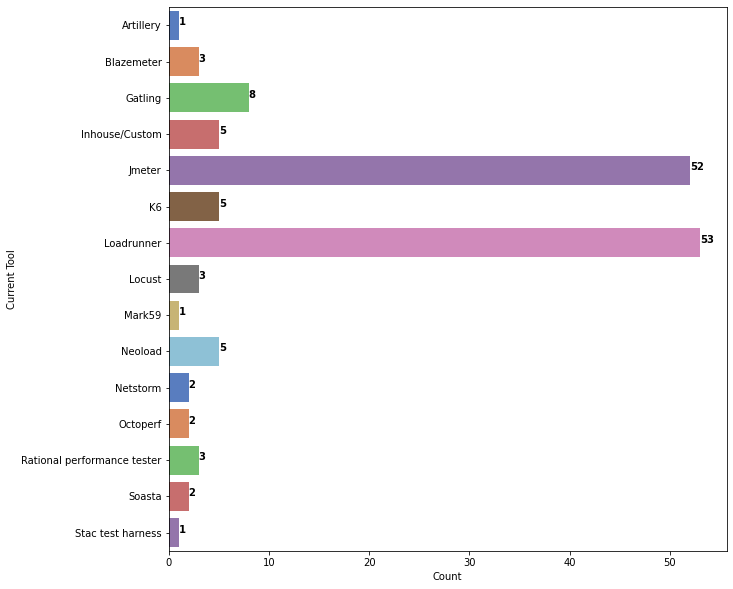
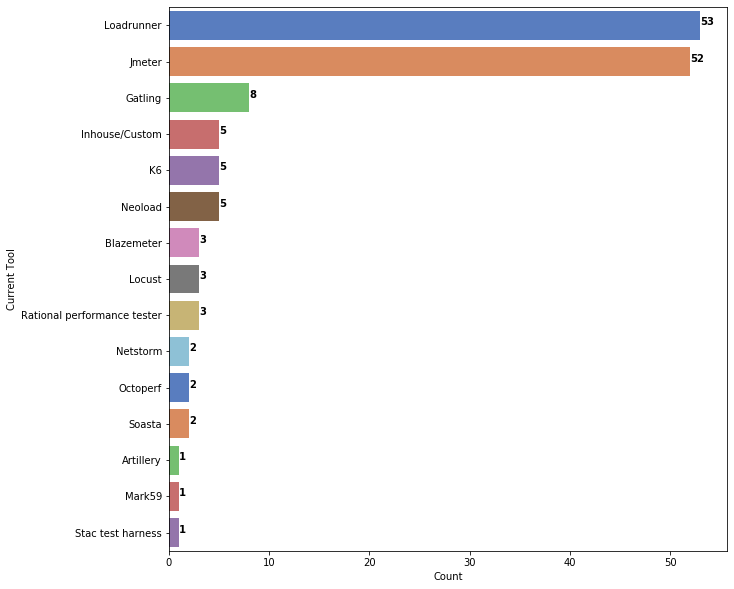
updated the scripts
updated the script

diff --git a/tool_survey.py b/tool_survey.py
@@ -3,6 +3,7 @@
 import pandas as pd
 import seaborn as sns
 import matplotlib.pyplot as plt
+from collections import Counter
 import warnings
 warnings.filterwarnings("ignore")
  
@@ -41,6 +42,17 @@ def split_string_in_column(file_name):
         fav_tool['value'] = fav_tool['value'].str.capitalize()
         fav_tool_table = pd.pivot_table(fav_tool, values='value',columns=['value'], aggfunc='count')
         
+        #Get country data
+        country = Counter(tools_df['country'])
+        country_list = pd.DataFrame(country.items())
+        country_list.columns = ['country','count']
+        
+        
+        #Get current industry data
+        current_industry = Counter(tools_df['current_industry'])
+        current_industry_list = pd.DataFrame(current_industry.items())
+        current_industry_list.columns = ['industry','count']
+
         
 #        #Get Total Performance Testing Experience
 #        experience = tools_df['experience'].str.split(", ", expand = True) #split each row in the column with ", "
@@ -49,21 +61,21 @@ def split_string_in_column(file_name):
 #        experience['value'] = experience['value'].str.capitalize()
 #        experience_table = pd.pivot_table(experience, values='value',columns=['value'], aggfunc='count')
 #        
-#        #Get virtual users load tested to in current engagement
-#        virtual_users = tools_df['virtual_users'].str.split(", ", expand = True) #split each row in the column with ", "
-#        virtual_users=pd.melt(virtual_users) #combine all columns into one column
-#        virtual_users.sort_values(["value"], ascending=True)
-#        
-#        virtual_users_table = pd.pivot_table(virtual_users, values='value',columns=['value'], aggfunc='count')
-#        
-#        print(virtual_users_table)
-#        virtual_users_table = virtual_users_table.T.sort_values(by ='value')
-#        print(virtual_users_table)
+        #Get virtual users load tested to in current engagement
+        # virtual_users = tools_df['virtual_users'].str.split(", ", expand = True) #split each row in the column with ", "
+        # virtual_users=pd.melt(virtual_users) #combine all columns into one column
+        # virtual_users.sort_values(["value"], ascending=True)
+        
+        # virtual_users_table = pd.pivot_table(virtual_users, values='value',columns=['value'], aggfunc='count')
+        
+        # print(virtual_users_table)
+        # #virtual_users_table = virtual_users_table.T.sort_values(by ='value')
         
         tools_used_chart(tools_used_table.T)
         current_tool_chart(current_tool_table.T)
-        fav_tool_chart(fav_tool_table.T)
-        
+        fav_tool_chart(fav_tool_table.T) 
+        country_chart(country_list)
+        current_industry_chart(current_industry_list)
         
     except Exception as e:
         print(e)
@@ -71,8 +83,28 @@ def split_string_in_column(file_name):
 def autopct_more_than_1(pct):
     return ('%1.f%%' % pct) if pct > 1 else ''
 
-def tools_used_chart(tools_used):
+def current_industry_chart(current_industry):
+    current_industry = current_industry.sort_values(by = 'count', ascending=False)
+    bar,ax = plt.subplots(figsize=(10,10))
+    ax = sns.barplot(x='count', y='industry', data=current_industry ,orient='h')
+    ax.set_xlabel ("Count")
+    ax.set_ylabel ("Industry")
+    for rect in ax.patches:
+        ax.text (rect.get_width(), rect.get_y() + rect.get_height() / 2,"%d"% rect.get_width(), weight='bold' )
+
+
+def country_chart(country):
+    country = country.sort_values(by = 'count', ascending=False)
+    bar,ax = plt.subplots(figsize=(10,10))
+    ax = sns.barplot(x='count', y='country', data=country ,orient='h')
+    ax.set_xlabel ("Count")
+    ax.set_ylabel ("Country")
+    for rect in ax.patches:
+        ax.text (rect.get_width(), rect.get_y() + rect.get_height() / 2,"%d"% rect.get_width(), weight='bold' )
     
+
+def tools_used_chart(tools_used):
+    tools_used = tools_used.sort_values(by = 'variable', ascending=False)
     bar,ax = plt.subplots(figsize=(10,10))
     ax = sns.barplot(x="variable", y=tools_used.index, data=tools_used, ci=None, palette="muted",orient='h' )
     #ax.set_title("In past three years, for your work, which load test tools have you used the most?", fontsize=13)
@@ -82,6 +114,7 @@ def tools_used_chart(tools_used):
         ax.text (rect.get_width(), rect.get_y() + rect.get_height() / 2,"%d"% rect.get_width(), weight='bold' )
 
 def current_tool_chart(current_tool):
+    current_tool = current_tool.sort_values(by = 'variable', ascending=False)
     bar,ax = plt.subplots(figsize=(10,10))
     ax = sns.barplot(x="variable", y=current_tool.index, data=current_tool, ci=None, palette="muted",orient='h' )
     #ax.set_title("Which load test tool are you using in your current engagement/job?", fontsize=13)
@@ -92,6 +125,7 @@ def current_tool_chart(current_tool):
 
 
 def fav_tool_chart(fav_tool):
+    fav_tool = fav_tool.sort_values(by = 'variable', ascending=False)
     bar,ax = plt.subplots(figsize=(10,10))
     ax = sns.barplot(x="variable", y=fav_tool.index, data=fav_tool, ci=None, palette="muted",orient='h' )
     #ax.set_title("Which is your favorite load test tool(/load test platform)?", fontsize=13)
